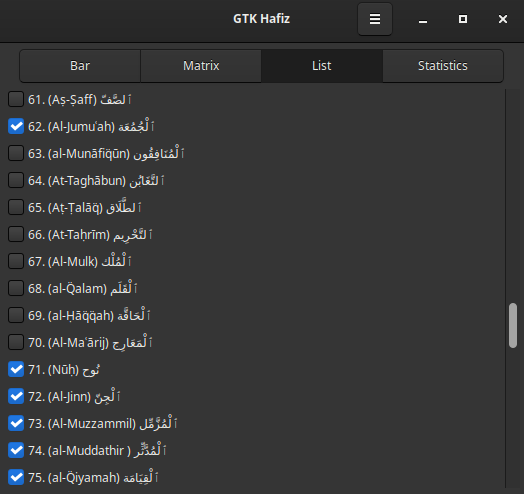
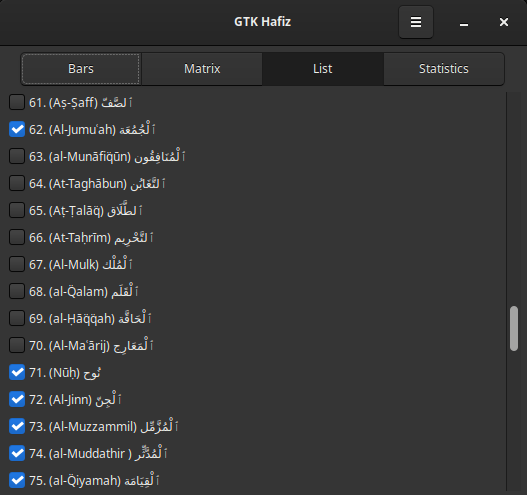
updated README and imgs

diff --git a/README.md b/README.md
@@ -1,16 +1,21 @@
 # GTK Hafiz: Track Qur'an memorization visually
 
 <p align="center" width="100%">
-<img src="./imgs/bar.png">
+<img src="./imgs/bars.png">
 <img src="./imgs/matrix.png">
 <img src="./imgs/list.png">
 <img src="./imgs/stats.png">
 </p>
 
-## Requirements (already pre-installed in most Linux distributions):
-- GTK+3
-- Python 3
-- gobject-introspection
+## Requirements
+This GTK 3 app was made using PyGObject, which is a Python package which provides bindings for GObject based libraries such as GTK, GStreamer, WebKitGTK, GLib, GIO and many more.
+
+The dependencies usually come pre-installed on popular Linux distributions, such as Debian, Mint and Fedora, except Ubuntu 24 and 25 - which may not come with the 'python3-gi-cairo' package by default.
+
+To install them on Debian-based distributions:
+```bash
+sudo apt install python3-gi python3-gi-cairo python3-cairo gir1.2-gtk-3.0
+```
 
 ## Run the App:
 ```bash
@@ -18,12 +23,13 @@ python3 main.py
 ```
 
 ## Reset the Database:
-### Install the sqlite3 CLI:
-#### Debian:
+The database setup is made using the sqlite3 CLI via a Bash script.
+
+To install the sqlite3 CLI on Debian-based distributions:
 ```bash
 sudo apt install sqlite3
 ```
-### Run the Bash Script:
+Run the Bash Script:
 ```bash
 bash setup_db.sh
 ```
